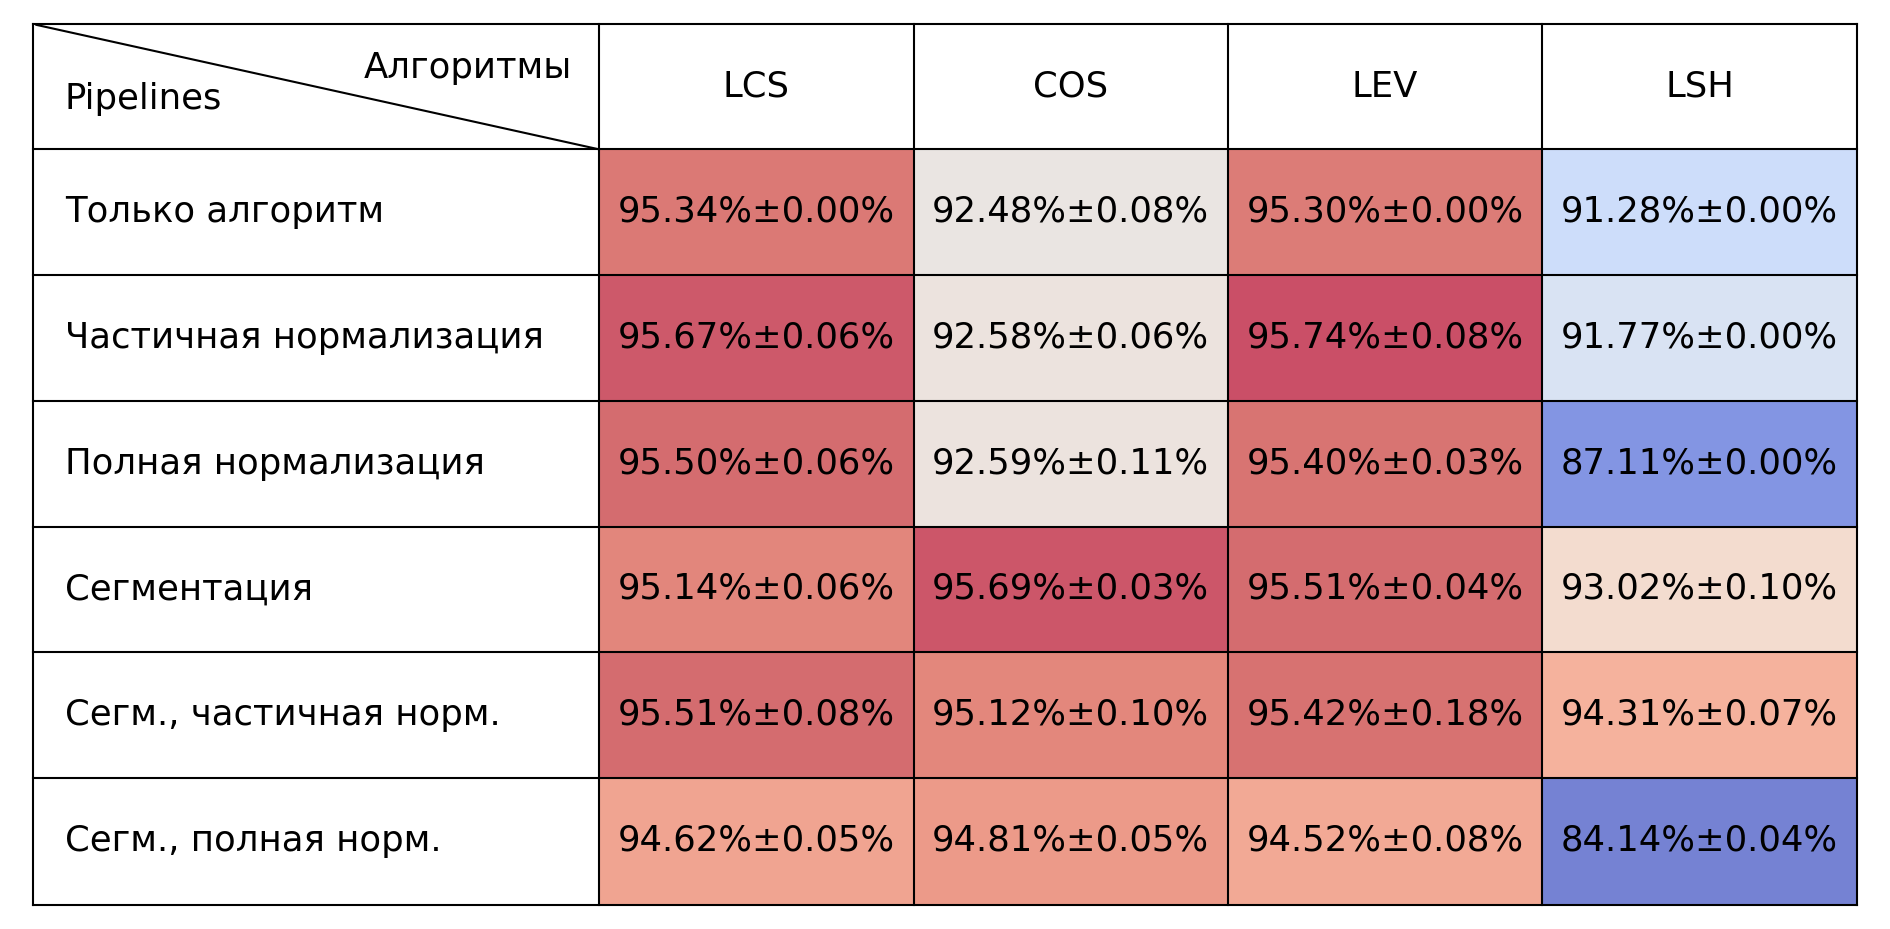
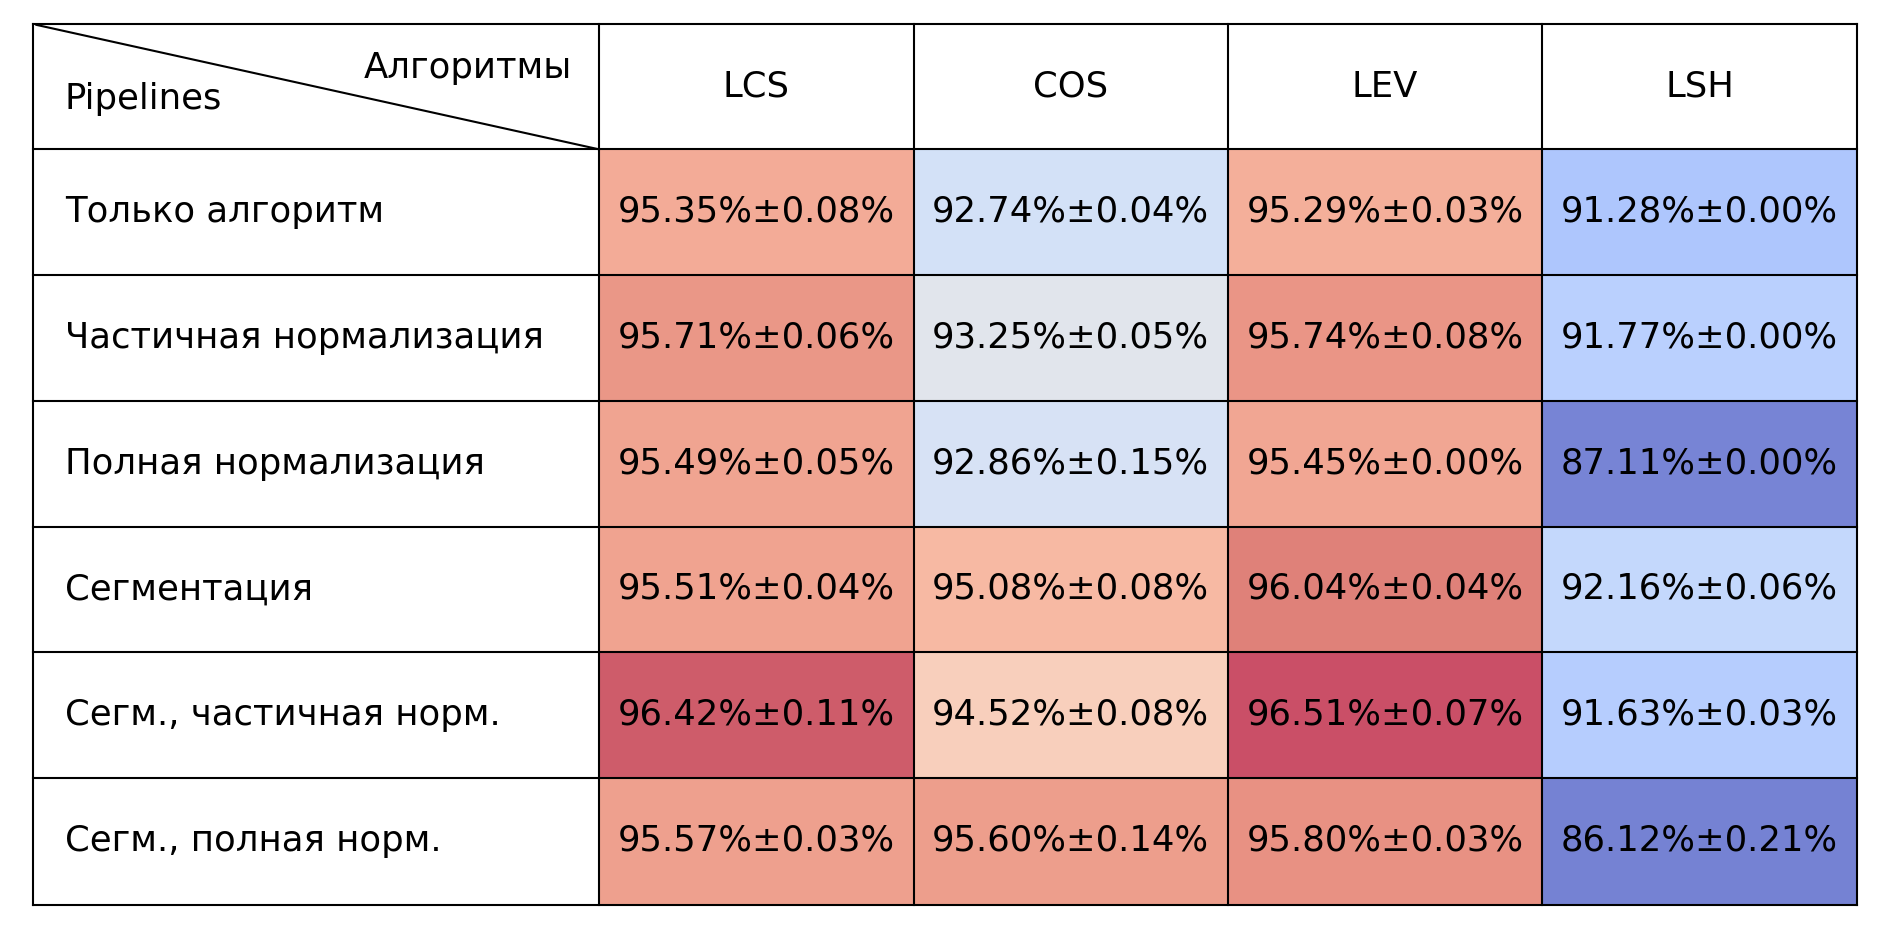
Update all stats

diff --git a/visualization/heatmap.py b/visualization/heatmap.py
@@ -70,3 +70,6 @@ def heatmap(title, save=False, show=True, norm=colors.PowerNorm(gamma=2)):
 if __name__ == "__main__":
     heatmap('time_50', True, False, colors.LogNorm())
     heatmap('time_95', True, False, colors.LogNorm())
+    heatmap('accuracy_j_k_fold', True, False)
+    heatmap('f1_j_k_fold', True, False)
+    heatmap('roc_auc', True, False)
